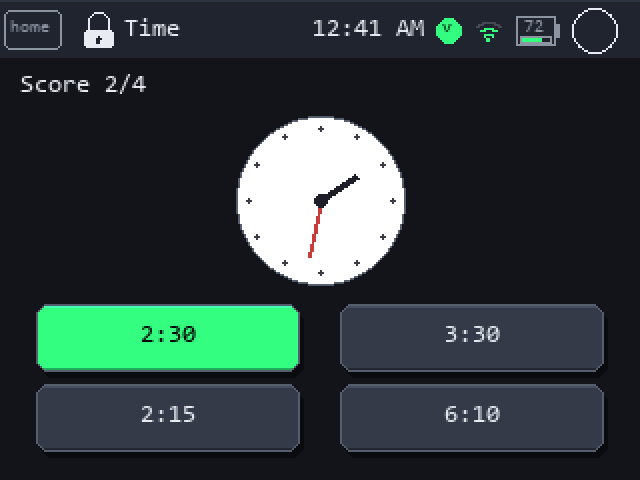
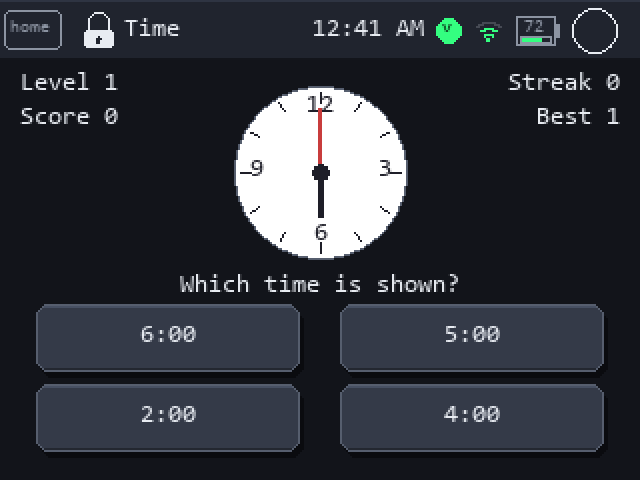
Stop the clock face covering the question in Time
The clock in Time was drawn over "Which time is shown?", worst at the
horizontal centre -- where a circle reaches lowest and a centred
sentence has its middle -- so the line was unreadable. On the 4-inch
board it swallowed the sentence almost whole.

Two separate causes, both fixed here.

The layout was overdrawn even at 1:1. The answer buttons start at y=152
and the label is 16px tall, so the clock had to end by 136; at cy=91
with radius 49 its outer fill reached 144. It is now cy=86 radius 43,
ending at 133, with the numerals, tick lengths and hand lengths moved
proportionally.

And ScaledRenderer scaled radii by the MEAN of the two axis scales,
which guarantees overflow on the smaller axis whenever they differ. The
4-inch panel is 480x320: scaleX 1.5, scaleY 1.333, mean 1.417 -- 6.25%
of vertical overhang, which is why a 7px overlap became 19px there.
Radii now take the smaller scale. A circle slightly narrower than the
horizontal space is invisible; an overlap is not.

The mock-up did not show any of this because it drew the dial at
different coordinates and omitted the label entirely. It now takes its
geometry from drawClock() and answerRect() and draws the sentence -- a
mock-up that leaves out the element being overlapped cannot show an
overlap, which is the whole reason this survived every screenshot pass.

diff --git a/tools/gen_screens.py b/tools/gen_screens.py
@@ -989,21 +989,44 @@ def multiply():
 
 
 def time_game():
+    """Time.
+
+    The geometry here is taken from TimeGame::drawClock() and answerRect(),
+    not approximated, and that matters more than it sounds: this mock-up used
+    to draw the dial at cy=100 r=42 and omit the question label entirely, so
+    the collision between the clock face and "Which time is shown?" -- which
+    was real on every board and severe on the 4-inch -- was invisible in every
+    generated screen. A mock-up that leaves out the element being overlapped
+    cannot show an overlap.
+    """
     im, d = blank(); topbar(d, "Time")
-    d.text((10, 36), "Score 2/4", font=F2, fill=TEXT)
-    cx, cy, r = W // 2, 100, 42
+    d.text((10, 35), "Level 1", font=F2, fill=TEXT)
+    d.text((10, 52), "Score 0", font=F2, fill=TEXT)
+    d.text((W - 10 - d.textlength("Streak 0", font=F2), 35), "Streak 0", font=F2, fill=TEXT)
+    d.text((W - 10 - d.textlength("Best 1", font=F2), 52), "Best 1", font=F2, fill=TEXT)
+
+    import math
+    cx, cy, r = W // 2, 86, 43
     d.ellipse([cx - r, cy - r, cx + r, cy + r], fill=WHITE, outline=OUTLINE)
     for h in range(12):
-        import math
         a = math.radians(h * 30 - 90)
-        d.ellipse([cx + math.cos(a) * (r - 6) - 1, cy + math.sin(a) * (r - 6) - 1,
-                   cx + math.cos(a) * (r - 6) + 1, cy + math.sin(a) * (r - 6) + 1], fill=(60, 60, 70))
-    d.line([(cx, cy), (cx + 18, cy - 12)], fill=(30, 30, 40), width=3)     # hour
-    d.line([(cx, cy), (cx - 6, cy + 28)], fill=(200, 60, 60), width=2)     # minute
-    d.ellipse([cx - 3, cy - 3, cx + 3, cy + 3], fill=(30, 30, 40))
-    for i, a in enumerate(["2:30", "3:30", "2:15", "6:10"]):
+        d.line([(cx + math.cos(a) * (r - 8), cy + math.sin(a) * (r - 8)),
+                (cx + math.cos(a) * (r - 3), cy + math.sin(a) * (r - 3))],
+               fill=(30, 30, 40))
+    for label, off in (("12", (0, -32)), ("3", (32, 0)), ("6", (0, 32)), ("9", (-32, 0))):
+        tw = d.textlength(label, font=F2)
+        d.text((cx + off[0] - tw / 2, cy + off[1] - 8), label, font=F2, fill=(30, 30, 40))
+    # 6:00 -- hour hand down, minute hand up.
+    d.line([(cx, cy), (cx, cy + 22)], fill=(30, 30, 40), width=3)
+    d.line([(cx, cy), (cx, cy - 32)], fill=(200, 60, 60), width=2)
+    d.ellipse([cx - 4, cy - 4, cx + 4, cy + 4], fill=(30, 30, 40))
+
+    q = "Which time is shown?"
+    d.text((W / 2 - d.textlength(q, font=F2) / 2, 136), q, font=F2, fill=TEXT)
+
+    for i, a in enumerate(["6:00", "5:00", "2:00", "4:00"]):
         r2 = (18 + (i % 2) * 152, 152 + (i // 2) * 40, 132, 34)
-        button(d, r2, a, SUCCESS if a == "2:30" else PANEL, (0, 0, 0) if a == "2:30" else TEXT)
+        button(d, r2, a, PANEL, TEXT)
     return im
 
 
@@ -1516,8 +1539,32 @@ def about_build():
     d.text((14, 168), "Built", font=F1, fill=TEXT)
     d.text((14, 182), "Aug 26 2026 14:28", font=F1, fill=MUTED)
     button(d, (12, 206, 92, 28), "Prev")
+    button(d, (216, 206, 92, 28), "Next")
+    d.text((W / 2 - 14, 212), "9/10", font=F2, fill=MUTED)
+    return im
+
+
+def about_updates():
+    """About: is there a newer firmware, and where to get it.
+
+    Drawn in the state that matters -- an update IS available -- because that
+    is the state the page exists for and the one nobody sees while developing.
+    The version numbers are illustrative; everything on the real page is read
+    from the device and from BRAINO_UPDATE_PAGE_URL, which is compiled in.
+    """
+    im, d = blank(); topbar(d, "About")
+    d.rounded_rectangle([10, 38, 309, 195], 6, fill=SURFACE, outline=OUTLINE)
+    d.text((14, 44), "Updates", font=F2, fill=TEXT)
+    d.text((14, 70), "Braino does not update itself.", font=F1, fill=MUTED)
+    d.text((14, 90), "Installed", font=F1, fill=TEXT)
+    d.text((14, 102), "5.7.0", font=F2, fill=MUTED)
+    d.text((14, 128), "Latest available", font=F1, fill=TEXT)
+    d.text((14, 140), "5.8.0", font=F2, fill=WARN)
+    d.text((14, 166), "Get it from", font=F1, fill=TEXT)
+    d.text((14, 180), "iamankushpandit.github.io/Gume", font=F1, fill=MUTED)
+    button(d, (12, 206, 92, 28), "Prev")
     button(d, (216, 206, 92, 28), "Next", PANEL, MUTED)  # last page: disabled
-    d.text((W / 2 - 14, 212), "9/9", font=F2, fill=MUTED)
+    d.text((W / 2 - 14, 212), "10/10", font=F2, fill=MUTED)
     return im
 
 
@@ -2016,6 +2063,7 @@ EXTRA_SCREENS = [
     ("systeminfo-memory", systeminfo_memory, "System Info: heap and CPU"),
     ("about-radios", about_radios, "About: what the radios do"),
     ("about-build", about_build, "About: which build is on the device"),
+    ("about-updates", about_updates, "About: whether a newer firmware exists"),
     ("tictactoe", tictactoe, "Tic-Tac-Toe"),
     ("memory", memory, "Memory Match"),
     ("math", math_game, "Math"),

diff --git a/src/games/TimeGame.cpp b/src/games/TimeGame.cpp
@@ -191,9 +191,24 @@ void TimeGame::update(AppContext& host, const TouchPoint& touch) {
 }
 
 void TimeGame::drawClock(Ui::Renderer& tft) const {
+    /* The vertical budget on this screen is tight and was overdrawn.
+     *
+     * The answer buttons start at y=152 and the question label is 16px tall, so
+     * everything the clock occupies has to end by 136. At cy=91 with radius 49
+     * the outer fill reached y=144 and printed the top of "Which time is
+     * shown?" out of existence -- worst at the horizontal centre, where a
+     * circle reaches lowest and the centred sentence has its middle. On the
+     * 4-inch panel it swallowed the line almost whole.
+     *
+     * cy=86 with radius 43 puts the outer fill at 39..133, clear of the label
+     * at 136 with three rows to spare. Everything drawn against the face --
+     * numerals, tick lengths, hands -- is proportional to the radius and moved
+     * with it; if you change one, change them all, or the hands leave the
+     * dial. */
     constexpr int16_t cx = GAME_CANVAS_WIDTH / 2;
-    constexpr int16_t cy = 91;
-    constexpr int16_t radius = 49;
+    constexpr int16_t cy = 86;
+    constexpr int16_t radius = 43;
+    constexpr int16_t numeralInset = 32;   // was 36 at radius 49
 
     tft.fillCircle(cx, cy, radius + 4, Ui::surface());
     tft.fillCircle(cx, cy, radius, CLOCK_FACE);
@@ -201,10 +216,10 @@ void TimeGame::drawClock(Ui::Renderer& tft) const {
 
     tft.setTextColor(HAND, CLOCK_FACE);
     tft.setTextDatum(MC_DATUM);
-    tft.drawString("12", cx, cy - 36, 2);
-    tft.drawString("3", cx + 36, cy, 2);
-    tft.drawString("6", cx, cy + 36, 2);
-    tft.drawString("9", cx - 36, cy, 2);
+    tft.drawString("12", cx, cy - numeralInset, 2);
+    tft.drawString("3", cx + numeralInset, cy, 2);
+    tft.drawString("6", cx, cy + numeralInset, 2);
+    tft.drawString("9", cx - numeralInset, cy, 2);
 
     for (uint8_t i = 0; i < 12; ++i) {
         const float angle = -PI / 2.0f + i * PI / 6.0f;
@@ -219,10 +234,10 @@ void TimeGame::drawClock(Ui::Renderer& tft) const {
     const uint8_t minute = answerMinutes_ % 60;
     const float hourAngle = -PI / 2.0f + (hour + minute / 60.0f) * PI / 6.0f;
     const float minuteAngle = -PI / 2.0f + minute * PI / 30.0f;
-    const int16_t hx = cx + static_cast<int16_t>(cosf(hourAngle) * 25);
-    const int16_t hy = cy + static_cast<int16_t>(sinf(hourAngle) * 25);
-    const int16_t mx = cx + static_cast<int16_t>(cosf(minuteAngle) * 36);
-    const int16_t my = cy + static_cast<int16_t>(sinf(minuteAngle) * 36);
+    const int16_t hx = cx + static_cast<int16_t>(cosf(hourAngle) * 22);
+    const int16_t hy = cy + static_cast<int16_t>(sinf(hourAngle) * 22);
+    const int16_t mx = cx + static_cast<int16_t>(cosf(minuteAngle) * 32);
+    const int16_t my = cy + static_cast<int16_t>(sinf(minuteAngle) * 32);
     tft.drawLine(cx, cy, hx, hy, HAND);
     tft.drawLine(cx + 1, cy, hx + 1, hy, HAND);
     tft.drawLine(cx, cy, mx, my, MINUTE_HAND);
@@ -235,7 +250,7 @@ void TimeGame::renderStatic(AppContext& host) {
     Ui::clear(tft);
     host.drawTopBar(title());
 
-    Ui::drawLabel(tft, Rect{8, 133, 304, 16}, "Which time is shown?",
+    Ui::drawLabel(tft, Rect{8, 136, 304, 16}, "Which time is shown?",
                   Ui::text(), 2, Align::Center);
 
     for (uint8_t i = 0; i < 4; ++i) {

diff --git a/src/ui/ScaledRenderer.h b/src/ui/ScaledRenderer.h
@@ -160,9 +160,27 @@ private:
     int32_t sy(int32_t v) const { return roundf32(v * scaleY_); }
     int32_t sw(int32_t v) const { return roundf32(v * scaleX_); }
     int32_t sh(int32_t v) const { return roundf32(v * scaleY_); }
-    // Radii have one dimension to scale two axes into -- split the difference
-    // so circles stay circles.
-    int32_t sr(int32_t v) const { return roundf32(v * (scaleX_ + scaleY_) * 0.5f); }
+    /* Radii have one dimension to scale two axes into. Take the SMALLER scale,
+     * not the average.
+     *
+     * Averaging looks fairer and is wrong, because a circle is laid out inside
+     * space the game reserved for it in canvas coordinates, and that space
+     * scales by scaleX_ horizontally and scaleY_ vertically. A radius scaled by
+     * the mean exceeds the smaller of the two, so the circle grows past its own
+     * layout box on that axis -- silently, and only on panels where the two
+     * scales differ.
+     *
+     * The 4-inch board is 480x320: scaleX_ 1.5, scaleY_ 1.333, mean 1.417. That
+     * is 6.25% of overhang on the vertical, which is what pushed the clock in
+     * the Time game over the question printed beneath it -- a 7px overlap at
+     * 1:1 became 19px there, and the sentence was unreadable.
+     *
+     * The cost of min() is a circle slightly narrower than the horizontal space
+     * available. That is invisible. An overlap is not. */
+    int32_t sr(int32_t v) const {
+        const float s = scaleX_ < scaleY_ ? scaleX_ : scaleY_;
+        return roundf32(v * s);
+    }
 
     Renderer& inner_;
     float scaleX_ = 1.0f;
